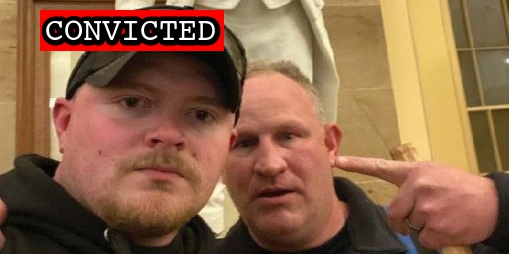
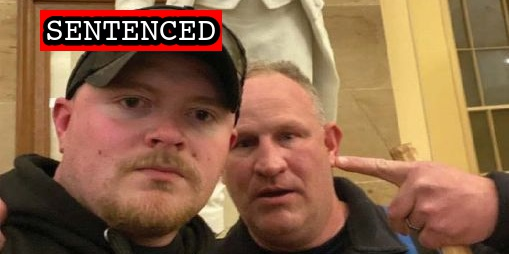
Latest import

Changed region(s): [[0.0589, 0.0551, 0.3536, 0.1929], [0.4126, 0.0276, 0.442, 0.2205]]

diff --git a/docs/_suspects/loammi-yazdani-isfehani.md b/docs/_suspects/loammi-yazdani-isfehani.md
@@ -4,16 +4,16 @@ lastName: Yazdani-Isfehani
 hashtag:
 aka: Elijah Yazdani
 residence: Ohio
-status: Charged
+status: Convicted
 date: 2022-02-18
 charged: 2022-02-18
 indicted:
-convicted:
+convicted: 2022-08-10
 acquitted:
 sentenced:
 dismissed:
 deceased:
-plea_hearing:
+plea_hearing: 2022-08-10
 trial_date:
 sentencing:
 age: 31
@@ -36,9 +36,15 @@ published: true
 caseNumber: 1:21-cr-543
 videos:
 charges:
+- code: 40 USC § 5104(e)(2)(G)
+  title: Parading, demonstrating or picketing in a Capitol building
+  url: https://www.law.cornell.edu/uscode/text/40/5104
+  felony: false
 sentence:
 ---
 - [News Report](https://sports.yahoo.com/two-athens-county-sisters-join-205327176.html)
 - [Complaint](https://www.justice.gov/usao-dc/case-multi-defendant/file/1477206/download)
 - [Statement of Facts](https://www.justice.gov/usao-dc/case-multi-defendant/file/1477211/download)
-- [Information](https://www.justice.gov/usao-dc/case-multi-defendant/file/1460181/download)
+- [Information](https://www.justice.gov/usao-dc/case-multi-defendant/file/1525741/download)
+- [Plea Agreement](https://www.justice.gov/usao-dc/case-multi-defendant/file/1525746/download)
+- [Statement of Offense](https://www.justice.gov/usao-dc/case-multi-defendant/file/1525751/download)

diff --git a/docs/_suspects/thaddis-johnson.md b/docs/_suspects/thaddis-johnson.md
@@ -4,16 +4,16 @@ lastName: Johnson
 hashtag:
 aka: TJ Johnson
 residence: California
-status: Charged
+status: Convicted
 date: 2022-05-23
 charged: 2022-05-23
 indicted:
-convicted:
+convicted: 2022-08-10
 acquitted:
 sentenced:
 dismissed:
 deceased:
-plea_hearing:
+plea_hearing: 2022-08-10
 trial_date:
 sentencing:
 age:
@@ -33,9 +33,16 @@ description: Click for latest case details. Suspects innocent until proven guilt
 author: seditiontrack
 layout: suspect
 published: true
-caseNumber: 1:22-mj-115
+caseNumber: 1:22-cr-228
 videos:
 charges:
+- code: 40 USC § 5104(e)(2)(G)
+  title: Parading, demonstrating or picketing in a Capitol building
+  url: https://www.law.cornell.edu/uscode/text/40/5104
+  felony: false
 sentence:
 ---
 - [Statement of Facts](https://www.justice.gov/usao-dc/case-multi-defendant/file/1509151/download)
+- [Information](https://www.justice.gov/usao-dc/case-multi-defendant/file/1525731/download)
+- [Plea Agreement](https://www.justice.gov/usao-dc/case-multi-defendant/file/1525721/download)
+- [Statement of Offense](https://www.justice.gov/usao-dc/case-multi-defendant/file/1525726/download)

diff --git a/docs/_suspects/thomas-robertson.md b/docs/_suspects/thomas-robertson.md
@@ -4,13 +4,13 @@ lastName: Robertson
 hashtag: ThomasRobertson
 aka: TJ Robertson
 residence: Virginia
-status: Convicted
+status: Sentenced
 date: 2021-01-13
 charged: 2021-01-13
 indicted: 2021-01-29
 convicted: 2022-04-11
 acquitted:
-sentenced:
+sentenced: 2022-08-11
 dismissed:
 deceased:
 plea_hearing: 2022-04-11
@@ -61,6 +61,8 @@ charges:
     url: https://www.law.cornell.edu/uscode/text/18/1512
     felony: true
 sentence:
+  - 87 months incarceration
+  - $2000 restitution
 ---
 
 - [News Report](https://roanoke.com/news/local/2-rocky-mount-police-officers-who-were-in-capitol-during-riot-face-federal-charges/article_756e0a1a-55c9-11eb-aac5-23258d074867.html)

diff --git a/docs/_suspects/tim-boughner.md b/docs/_suspects/tim-boughner.md
@@ -12,7 +12,7 @@ convicted:
 sentenced:
 dismissed:
 deceased:
-plea_hearing:
+plea_hearing: 2022-08-11
 sentencing:
 age: 41
 occupation:
